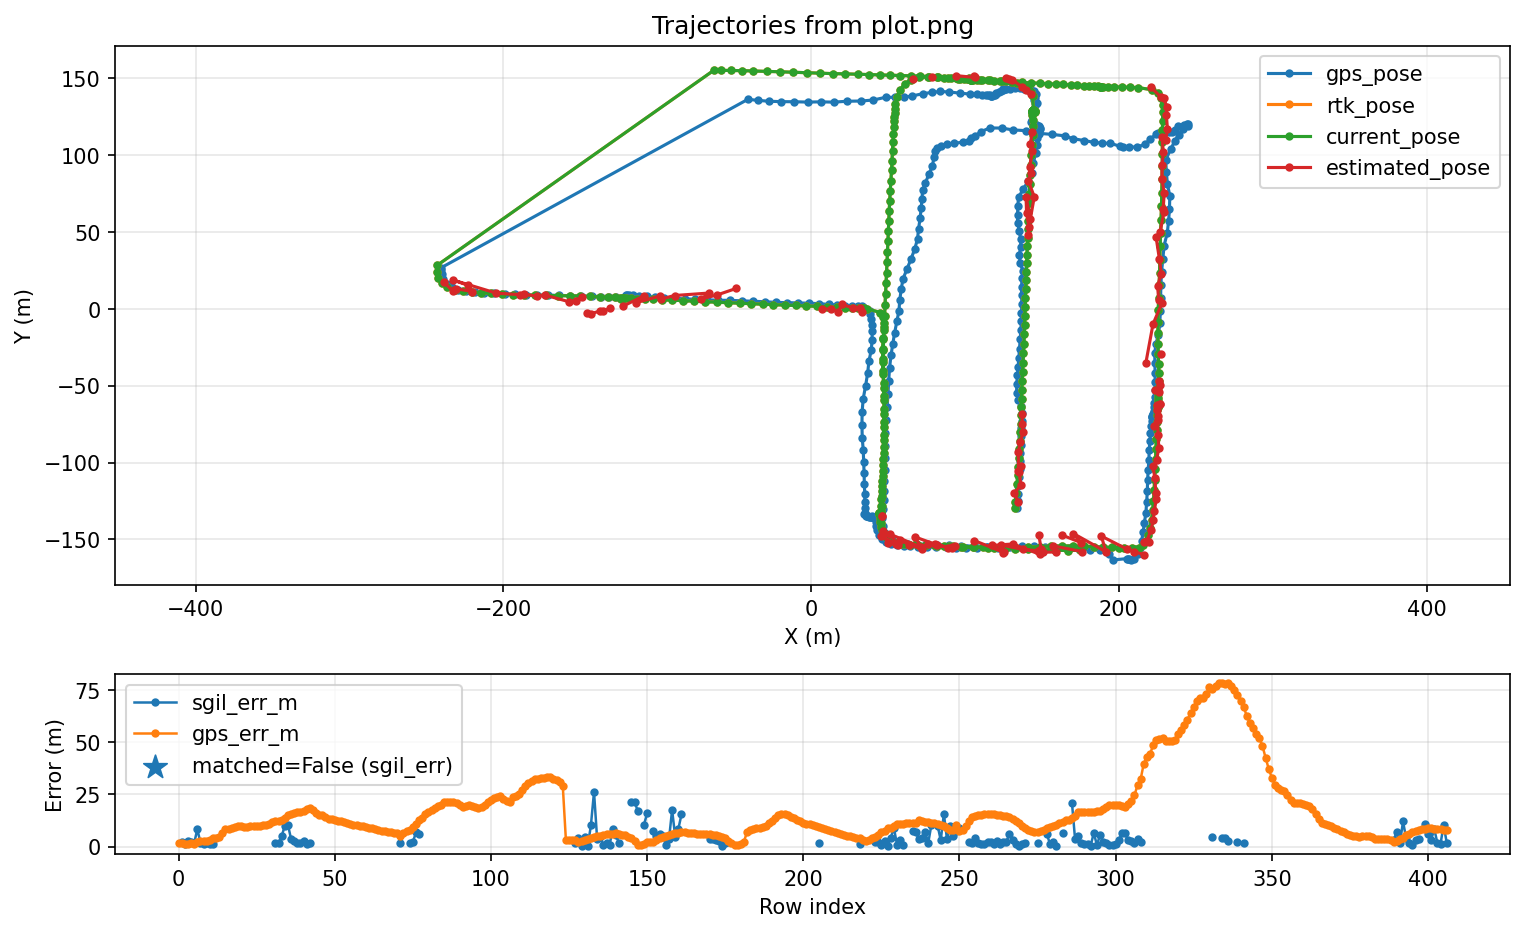
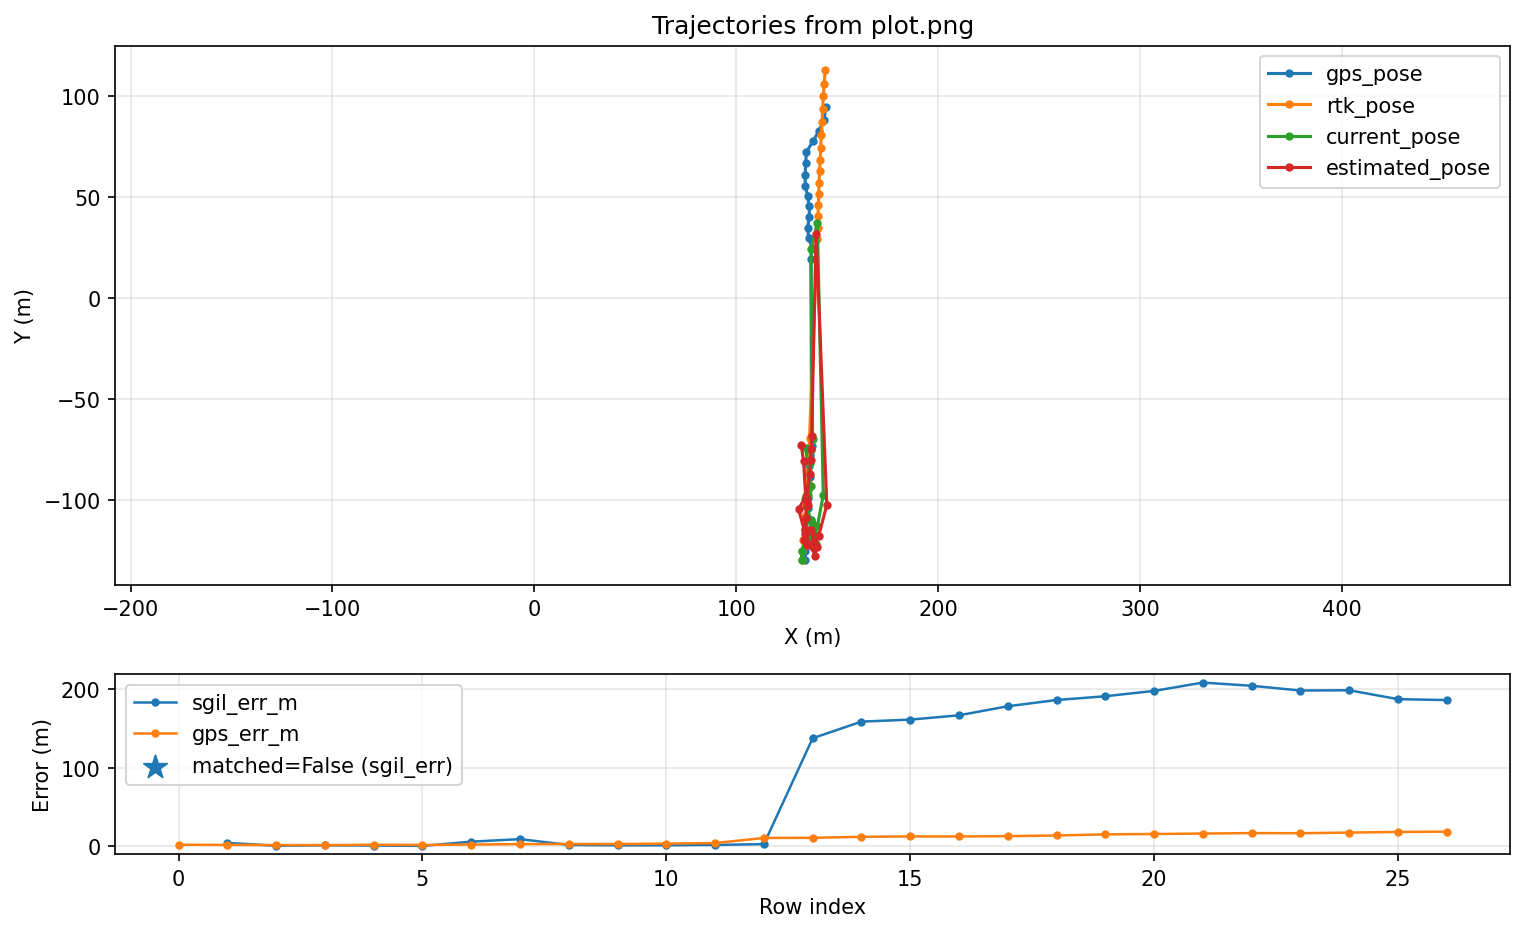
fixed gps jump

diff --git a/project_sgil/automated_sgil.py b/project_sgil/automated_sgil.py
@@ -37,6 +37,10 @@ from project_sgil.constants import (
     MIN_DY,
     RTK_TO_CAMERA_OFFSET_X_FWD_M,
     RTK_TO_CAMERA_OFFSET_Y_LEFT_M,
+    HEADING_ERROR_DEG,
+    HEADING_ERROR_AFTER_SKIP_DEG,
+    HEADING_ERROR_AFTER_SUCCESS_DEG,
+    H_FOV_DEG,
 )
 from project_sgil.data_structs import LocalizationResult, Point, Pose2d
 from project_sgil.graphics.debug_visualizer import DebugVisualizer
@@ -284,10 +288,31 @@ class AutomatedSGIL:
                 return True
         return False
 
+    def _set_heading_error_deg(self, deg: float) -> None:
+        """Update TreeMatcher's runtime heading tolerance.
+
+        TreeMatcher imports HEADING_ERROR_DEG and AOI_ANGLE_DEG as module-level
+        constants, so changing project_sgil.constants at runtime isn't enough.
+        We patch the values in the imported tree_matcher module.
+        """
+        try:
+            import project_sgil.localization.tree_matcher as tm
+
+            tm.HEADING_ERROR_DEG = float(deg)
+            tm.AOI_ANGLE_DEG = (float(H_FOV_DEG) + float(tm.HEADING_ERROR_DEG)) / 2.0
+            print(
+                f"[AutomatedSGIL] Set heading error tolerance to {tm.HEADING_ERROR_DEG:.1f} deg"
+            )
+        except Exception as e:
+            print(f"[AutomatedSGIL] Failed to update heading error tolerance: {e}")
+
     def run(self) -> list[LocalizationResult]:
         results: list[LocalizationResult] = []
         if PLOT:
             DebugVisualizer.clear_plots()
+
+        # Start with the 'normal' tolerance
+        self._set_heading_error_deg(float(HEADING_ERROR_AFTER_SUCCESS_DEG))
 
         # Iterate over frames sorted by index
         frames: list[dict[str, Any]] = list(self.frame_lookup.values())
@@ -329,6 +354,10 @@ class AutomatedSGIL:
             # a result row (and don't run the matcher). But in carryover mode,
             # keep accumulating GPS deltas by advancing the anchor.
             if idx is not None and self._in_skip_range(idx):
+                # We are skipping frames in this range; widen tolerance so the next
+                # processed frame after the skip is easier to match.
+                self._set_heading_error_deg(float(HEADING_ERROR_AFTER_SKIP_DEG))
+
                 if not AUTOMATED_USE_RTK_POSE_EACH_FRAME and curr_gps_xy is not None:
                     # Initialize anchors/state so we can accumulate deltas across the skipped range
                     if self.current_pose is None:
@@ -425,6 +454,9 @@ class AutomatedSGIL:
                     )
                     est_pose = Pose2d(est_xy.x, est_xy.y, pose_for_match.yaw)
                     matched = True
+
+                    # After a successful localization, restore the normal heading tolerance.
+                    self._set_heading_error_deg(float(HEADING_ERROR_AFTER_SUCCESS_DEG))
 
                 except Exception:
                     matched = False

diff --git a/project_sgil/constants.py b/project_sgil/constants.py
@@ -47,7 +47,14 @@ PLOT_RANGE = (300, 1000)
 RANDOM = False
 
 # The error from the heading on the GPS
-HEADING_ERROR_DEG = 20
+# Heading error (deg). Used in wedge creation tolerance.
+# NOTE: automated_sgil may temporarily override this at runtime.
+HEADING_ERROR_DEG = 6
+
+# When AutomatedSGIL skips frames (IMAGES_TO_SKIP) it can temporarily widen the
+# heading error tolerance to help recovery.
+HEADING_ERROR_AFTER_SKIP_DEG = 20
+HEADING_ERROR_AFTER_SUCCESS_DEG = 6
 
 # Heading sweep: try multiple candidate headings around the given yaw
 HEADING_SWEEP_ENABLED = False
@@ -80,8 +87,6 @@ TREE_RADIUS_M = 1.1  # meters
 THETA_MATCHING_TOLERANCE = 0.8  # degrees
 
 # --- Automated SGIL image skipping ---
-# List of (start_inclusive, end_exclusive) frame index ranges to skip.
-# Example: IMAGES_TO_SKIP = [(200, 250), (1200, 1400)]
 IMAGES_TO_SKIP: list[tuple[int, int]] = [(318, 605), (786, 2119), (2878, 3633), (5036, 6500)]
 
 # --- Automated SGIL (results.json) filtering ---

diff --git a/README.md b/README.md
@@ -50,6 +50,7 @@ uv run python scripts\convert_tree_csv_to_latlon.py
 
 ```
 uv run python -m project_sgil.automated_sgil | Out-File -FilePath "dataset\tables\automated_sgil_table.txt" -Encoding utf8
+uv run python -m project_sgil.graphics.sgil_visualizer "dataset\tables\automated_sgil_table.txt" --out "plot.png"
 ```
 
 This overwrites `RaleighSatellite_manual_trees.csv` with lat/lon values and writes a backup at `RaleighSatellite_manual_trees.csv.bak`.
